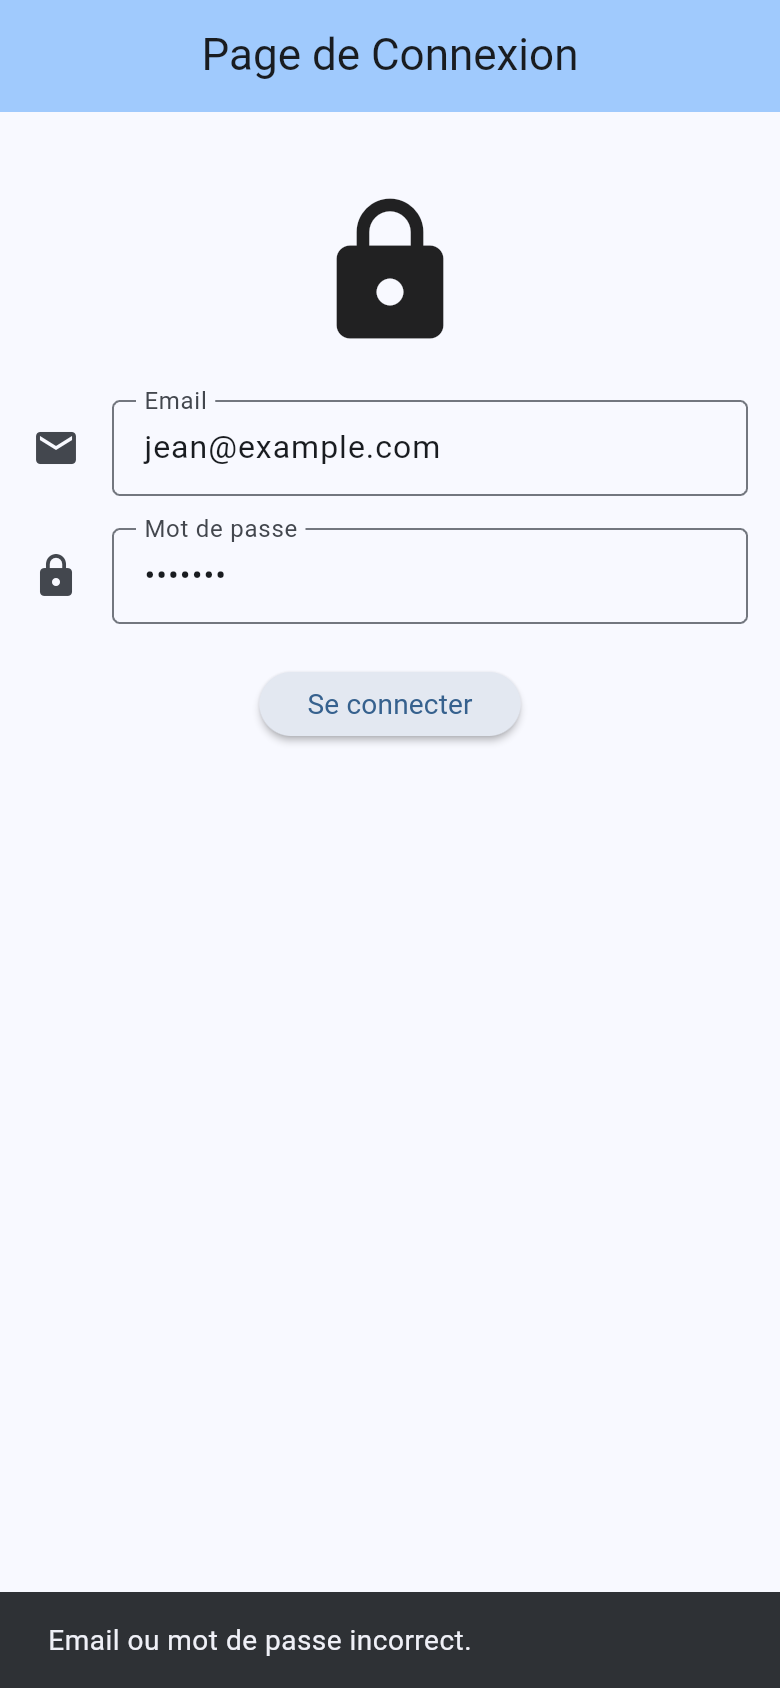
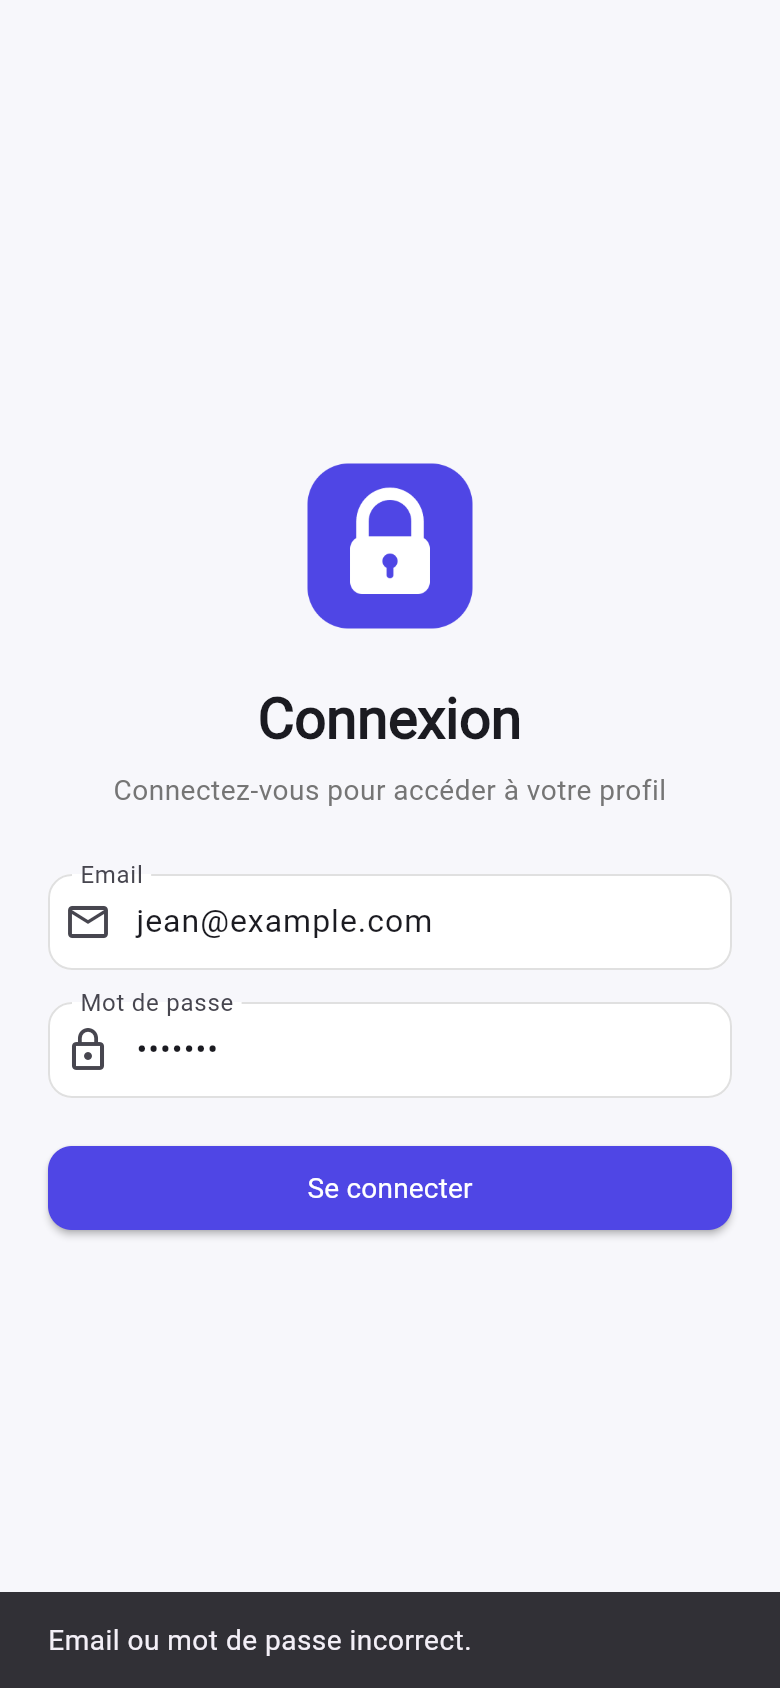
Design minimaliste de l'interface
- thème personnalisé (couleur principale, champs et boutons arrondis)
- logo en image dans assets/images
- loader intégré au bouton de connexion avec transition
- profil avec avatar à initiales et carte d'informations
- largeur limitée sur grand écran
- captures d'écran mises à jour

diff --git a/lib/screens/login_screen.dart b/lib/screens/login_screen.dart
@@ -56,66 +56,91 @@ class _LoginScreenState extends State<LoginScreen> {
     final isLoading = context.watch<AuthProvider>().isLoading;
 
     return Scaffold(
-      appBar: AppBar(
-        title: const Text('Page de Connexion'),
-        backgroundColor: Theme.of(context).colorScheme.inversePrimary,
-      ),
-      // SingleChildScrollView : le formulaire reste accessible
-      // quand le clavier est ouvert ou en mode paysage
-      body: SingleChildScrollView(
-        padding: const EdgeInsets.all(16.0),
-        child: Form(
-          key: _formKey,
-          child: Column(
-            children: [
-              const SizedBox(height: 24.0),
-              const Icon(Icons.lock, size: 80),
-              const SizedBox(height: 24.0),
-              // Champ Email
-              TextFormField(
-                controller: _emailController,
-                decoration: const InputDecoration(
-                  labelText: 'Email',
-                  border: OutlineInputBorder(),
-                  icon: Icon(Icons.mail),
-                ),
-                keyboardType: TextInputType.emailAddress,
-                validator: (value) {
-                  if (value == null || value.trim().isEmpty) {
-                    return 'Veuillez entrer votre email';
-                  }
-                  if (!RegExp(r'^[^@]+@[^@]+\.[^@]+').hasMatch(value.trim())) {
-                    return 'Veuillez entrer un email valide';
-                  }
-                  return null;
-                },
-              ),
-              const SizedBox(height: 16.0),
-              // Champ Mot de passe
-              TextFormField(
-                controller: _passwordController,
-                decoration: const InputDecoration(
-                  labelText: 'Mot de passe',
-                  border: OutlineInputBorder(),
-                  icon: Icon(Icons.lock),
-                ),
-                obscureText: true,
-                validator: (value) {
-                  if (value == null || value.isEmpty) {
-                    return 'Veuillez entrer votre mot de passe';
-                  }
-                  return null;
-                },
-              ),
-              const SizedBox(height: 24.0),
-              // Bouton de connexion ou indicateur de chargement
-              isLoading
-                  ? const CircularProgressIndicator()
-                  : ElevatedButton(
-                      onPressed: _login,
-                      child: const Text('Se connecter'),
+      body: SafeArea(
+        child: Center(
+          // SingleChildScrollView : le formulaire reste accessible
+          // quand le clavier est ouvert ou en mode paysage
+          child: SingleChildScrollView(
+            padding: const EdgeInsets.all(24.0),
+            child: ConstrainedBox(
+              // Largeur maximale pour rester lisible sur tablette / web
+              constraints: const BoxConstraints(maxWidth: 400),
+              child: Form(
+                key: _formKey,
+                child: Column(
+                  crossAxisAlignment: CrossAxisAlignment.stretch,
+                  children: [
+                    // Logo (image dans assets/images)
+                    Image.asset('assets/images/logo.png', height: 88),
+                    const SizedBox(height: 24.0),
+                    Text(
+                      'Connexion',
+                      textAlign: TextAlign.center,
+                      style: Theme.of(context).textTheme.headlineMedium
+                          ?.copyWith(fontWeight: FontWeight.bold),
                     ),
-            ],
+                    const SizedBox(height: 8.0),
+                    Text(
+                      'Connectez-vous pour accéder à votre profil',
+                      textAlign: TextAlign.center,
+                      style: TextStyle(color: Colors.grey.shade600),
+                    ),
+                    const SizedBox(height: 32.0),
+                    // Champ Email
+                    TextFormField(
+                      controller: _emailController,
+                      decoration: const InputDecoration(
+                        labelText: 'Email',
+                        prefixIcon: Icon(Icons.mail_outline),
+                      ),
+                      keyboardType: TextInputType.emailAddress,
+                      validator: (value) {
+                        if (value == null || value.trim().isEmpty) {
+                          return 'Veuillez entrer votre email';
+                        }
+                        if (!RegExp(r'^[^@]+@[^@]+\.[^@]+')
+                            .hasMatch(value.trim())) {
+                          return 'Veuillez entrer un email valide';
+                        }
+                        return null;
+                      },
+                    ),
+                    const SizedBox(height: 16.0),
+                    // Champ Mot de passe
+                    TextFormField(
+                      controller: _passwordController,
+                      decoration: const InputDecoration(
+                        labelText: 'Mot de passe',
+                        prefixIcon: Icon(Icons.lock_outline),
+                      ),
+                      obscureText: true,
+                      validator: (value) {
+                        if (value == null || value.isEmpty) {
+                          return 'Veuillez entrer votre mot de passe';
+                        }
+                        return null;
+                      },
+                    ),
+                    const SizedBox(height: 24.0),
+                    // Bouton de connexion : affiche un indicateur de chargement
+                    // pendant l'appel à l'API (avec une transition en fondu)
+                    ElevatedButton(
+                      onPressed: isLoading ? null : _login,
+                      child: AnimatedSwitcher(
+                        duration: const Duration(milliseconds: 200),
+                        child: isLoading
+                            ? const SizedBox(
+                                width: 22,
+                                height: 22,
+                                child: CircularProgressIndicator(strokeWidth: 2.5),
+                              )
+                            : const Text('Se connecter'),
+                      ),
+                    ),
+                  ],
+                ),
+              ),
+            ),
           ),
         ),
       ),

diff --git a/lib/screens/profile_screen.dart b/lib/screens/profile_screen.dart
@@ -24,6 +24,7 @@ class ProfileScreen extends StatelessWidget {
   @override
   Widget build(BuildContext context) {
     final user = context.watch<AuthProvider>().user;
+    final primaryColor = Theme.of(context).colorScheme.primary;
 
     // Pendant la déconnexion, l'utilisateur peut être null un court instant
     if (user == null) {
@@ -32,29 +33,93 @@ class ProfileScreen extends StatelessWidget {
 
     return Scaffold(
       appBar: AppBar(
-        title: const Text('Profil de l\'Utilisateur'),
-        backgroundColor: Theme.of(context).colorScheme.inversePrimary,
+        title: const Text('Mon profil'),
         actions: [
           IconButton(
+            tooltip: 'Se déconnecter',
             icon: const Icon(Icons.logout),
             onPressed: () => _logout(context),
           ),
         ],
       ),
-      body: SingleChildScrollView(
-        padding: const EdgeInsets.all(16.0),
-        child: Column(
-          children: [
-            // Affichage des informations du profil
-            ProfileInfoTile(icon: Icons.person, label: 'Nom', value: user.fullName),
-            ProfileInfoTile(icon: Icons.email, label: 'Email', value: user.email),
-            ProfileInfoTile(icon: Icons.security, label: 'Rôle', value: user.roleLabel),
-            const SizedBox(height: 24.0),
-            ElevatedButton(
-              onPressed: () => _logout(context),
-              child: const Text('Se déconnecter'),
+      body: Center(
+        child: SingleChildScrollView(
+          padding: const EdgeInsets.all(24.0),
+          child: ConstrainedBox(
+            constraints: const BoxConstraints(maxWidth: 400),
+            child: Column(
+              crossAxisAlignment: CrossAxisAlignment.stretch,
+              children: [
+                // Avatar avec les initiales de l'utilisateur
+                CircleAvatar(
+                  radius: 44,
+                  backgroundColor: primaryColor,
+                  child: Text(
+                    user.initials,
+                    style: const TextStyle(
+                      fontSize: 28,
+                      color: Colors.white,
+                      fontWeight: FontWeight.bold,
+                    ),
+                  ),
+                ),
+                const SizedBox(height: 16.0),
+                Text(
+                  user.fullName,
+                  textAlign: TextAlign.center,
+                  style: Theme.of(context).textTheme.titleLarge
+                      ?.copyWith(fontWeight: FontWeight.bold),
+                ),
+                const SizedBox(height: 4.0),
+                Text(
+                  user.roleLabel,
+                  textAlign: TextAlign.center,
+                  style: TextStyle(color: Colors.grey.shade600),
+                ),
+                const SizedBox(height: 24.0),
+                // Informations du profil
+                Card(
+                  elevation: 0,
+                  color: Colors.white,
+                  shape: RoundedRectangleBorder(
+                    borderRadius: BorderRadius.circular(16),
+                    side: BorderSide(color: Colors.grey.shade200),
+                  ),
+                  child: Column(
+                    children: [
+                      ProfileInfoTile(
+                        icon: Icons.person_outline,
+                        label: 'Nom',
+                        value: user.fullName,
+                      ),
+                      ProfileInfoTile(
+                        icon: Icons.mail_outline,
+                        label: 'Email',
+                        value: user.email,
+                      ),
+                      ProfileInfoTile(
+                        icon: Icons.verified_user_outlined,
+                        label: 'Rôle',
+                        value: user.roleLabel,
+                      ),
+                    ],
+                  ),
+                ),
+                const SizedBox(height: 24.0),
+                OutlinedButton.icon(
+                  style: OutlinedButton.styleFrom(
+                    minimumSize: const Size.fromHeight(50),
+                    shape: RoundedRectangleBorder(
+                      borderRadius: BorderRadius.circular(12),
+                    ),
+                  ),
+                  icon: const Icon(Icons.logout),
+                  label: const Text('Se déconnecter'),
+                  onPressed: () => _logout(context),
+                ),
+              ],
             ),
-          ],
+          ),
         ),
       ),
     );

diff --git a/lib/main.dart b/lib/main.dart
@@ -19,16 +19,52 @@ void main() {
 class LoginApp extends StatelessWidget {
   const LoginApp({super.key});
 
+  // Couleur principale de l'application (même couleur que le logo)
+  static const Color primaryColor = Color(0xFF4F46E5);
+
   @override
   Widget build(BuildContext context) {
     return MaterialApp(
       title: 'Application de Connexion',
+      debugShowCheckedModeBanner: false,
       theme: ThemeData(
-        colorScheme: ColorScheme.fromSeed(seedColor: Colors.blue),
         useMaterial3: true,
+        colorScheme: ColorScheme.fromSeed(
+          seedColor: primaryColor,
+          primary: primaryColor,
+        ),
+        scaffoldBackgroundColor: const Color(0xFFF7F7FB),
+        appBarTheme: const AppBarTheme(
+          centerTitle: true,
+          backgroundColor: Colors.transparent,
+          elevation: 0,
+        ),
+        // Champs de saisie arrondis sur fond blanc
+        inputDecorationTheme: InputDecorationTheme(
+          filled: true,
+          fillColor: Colors.white,
+          border: OutlineInputBorder(
+            borderRadius: BorderRadius.circular(12),
+            borderSide: BorderSide(color: Colors.grey.shade300),
+          ),
+          enabledBorder: OutlineInputBorder(
+            borderRadius: BorderRadius.circular(12),
+            borderSide: BorderSide(color: Colors.grey.shade300),
+          ),
+        ),
+        // Boutons pleine largeur aux coins arrondis
+        elevatedButtonTheme: ElevatedButtonThemeData(
+          style: ElevatedButton.styleFrom(
+            backgroundColor: primaryColor,
+            foregroundColor: Colors.white,
+            minimumSize: const Size.fromHeight(50),
+            shape: RoundedRectangleBorder(
+              borderRadius: BorderRadius.circular(12),
+            ),
+          ),
+        ),
       ),
       home: const SplashScreen(),
-      debugShowCheckedModeBanner: false,
     );
   }
 }

diff --git a/lib/widgets/profile_info_tile.dart b/lib/widgets/profile_info_tile.dart
@@ -18,9 +18,12 @@ class ProfileInfoTile extends StatelessWidget {
   @override
   Widget build(BuildContext context) {
     return ListTile(
-      leading: Icon(icon),
-      title: Text(label),
-      subtitle: Text(value),
+      leading: Icon(icon, color: Theme.of(context).colorScheme.primary),
+      title: Text(label, style: TextStyle(color: Colors.grey.shade600, fontSize: 13)),
+      subtitle: Text(
+        value,
+        style: const TextStyle(fontSize: 16, color: Colors.black87),
+      ),
     );
   }
 }

diff --git a/README.md b/README.md
@@ -10,7 +10,7 @@ L'API vérifie les mots de passe hachés avec **bcrypt**, renvoie le profil en J
 - Affichage du profil connecté (nom, email, rôle, identifiant)
 - Token stocké avec `flutter_secure_storage` et **session restaurée automatiquement** au démarrage (`GET /me`)
 - Gestion d'état avec **Provider** (`AuthProvider`)
-- UX/UI : `CircularProgressIndicator` pendant la connexion, `SingleChildScrollView` (clavier ouvert, mode paysage), messages d'erreur en `SnackBar`, thème Material 3
+- UX/UI : `CircularProgressIndicator` dans le bouton pendant la connexion (transition `AnimatedSwitcher`), `SingleChildScrollView` + largeur max (clavier ouvert, paysage, tablette, web), messages d'erreur en `SnackBar`, thème personnalisé (couleur, champs et boutons arrondis), logo en image (`assets/images/logo.png`)
 
 **API (Option A — API personnelle, NestJS)**
 - Architecture NestJS en modules : `UsersModule`, `AuthModule` (contrôleur, service, DTO, guard)
@@ -44,6 +44,7 @@ login_app_plus/
 │   │   ├── login_screen.dart     # Formulaire de connexion
 │   │   └── profile_screen.dart   # Profil de l'utilisateur
 │   └── widgets/profile_info_tile.dart  # Ligne d'info du profil
+├── assets/images/logo.png        # Logo de l'application
 ├── test/widget_test.dart         # Tests (modèle, service, provider, écran)
 └── api/                              # API REST NestJS
     ├── src/
